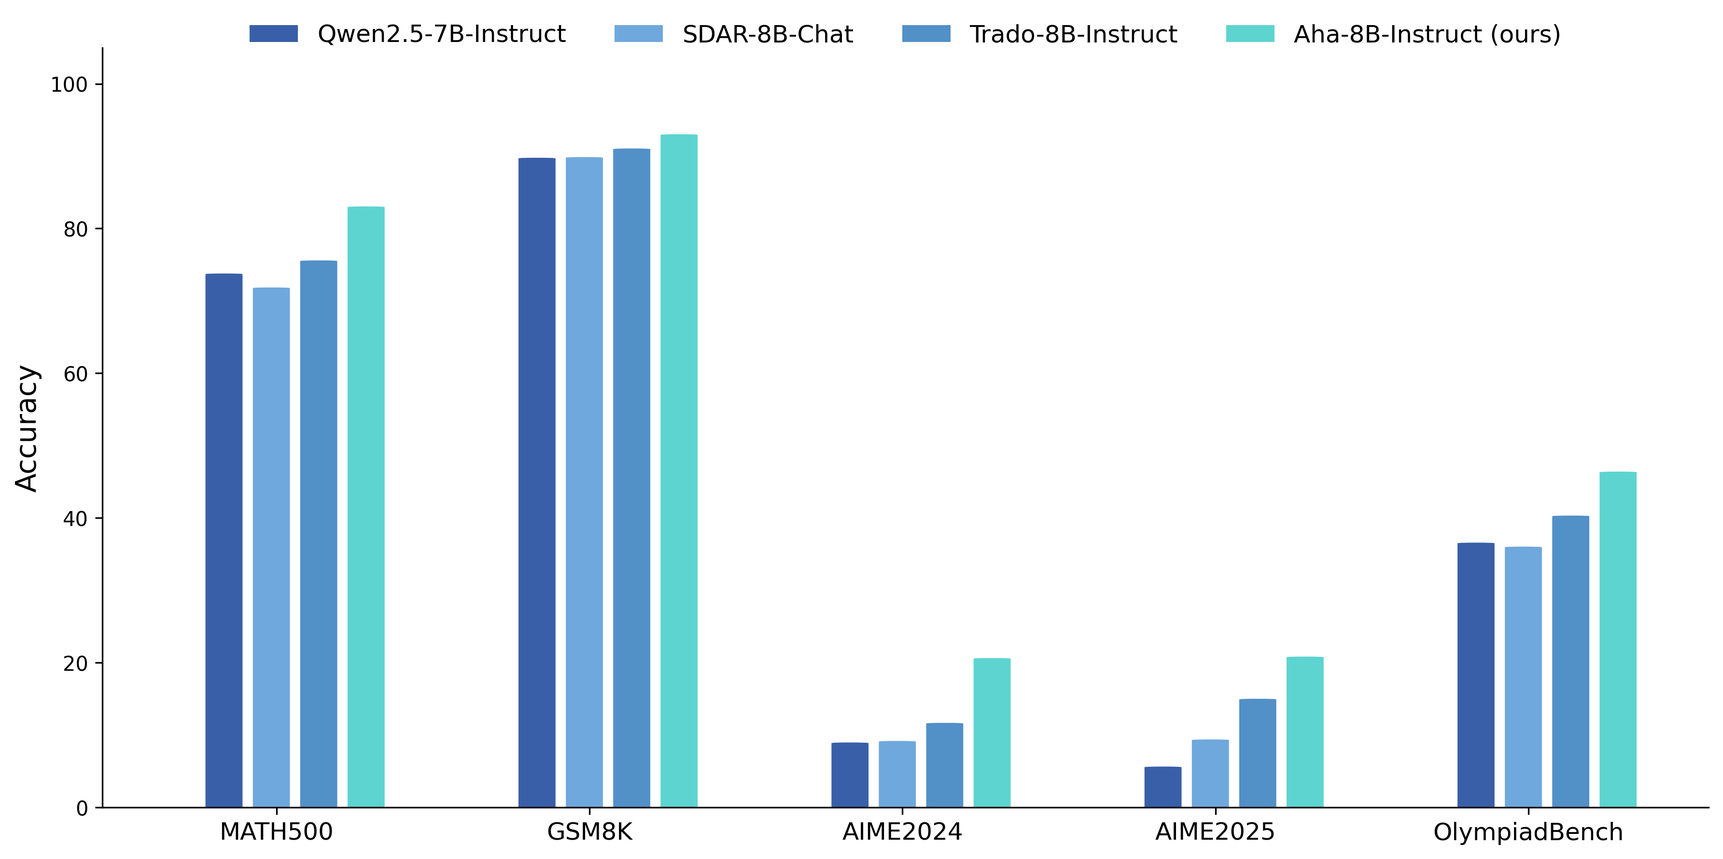
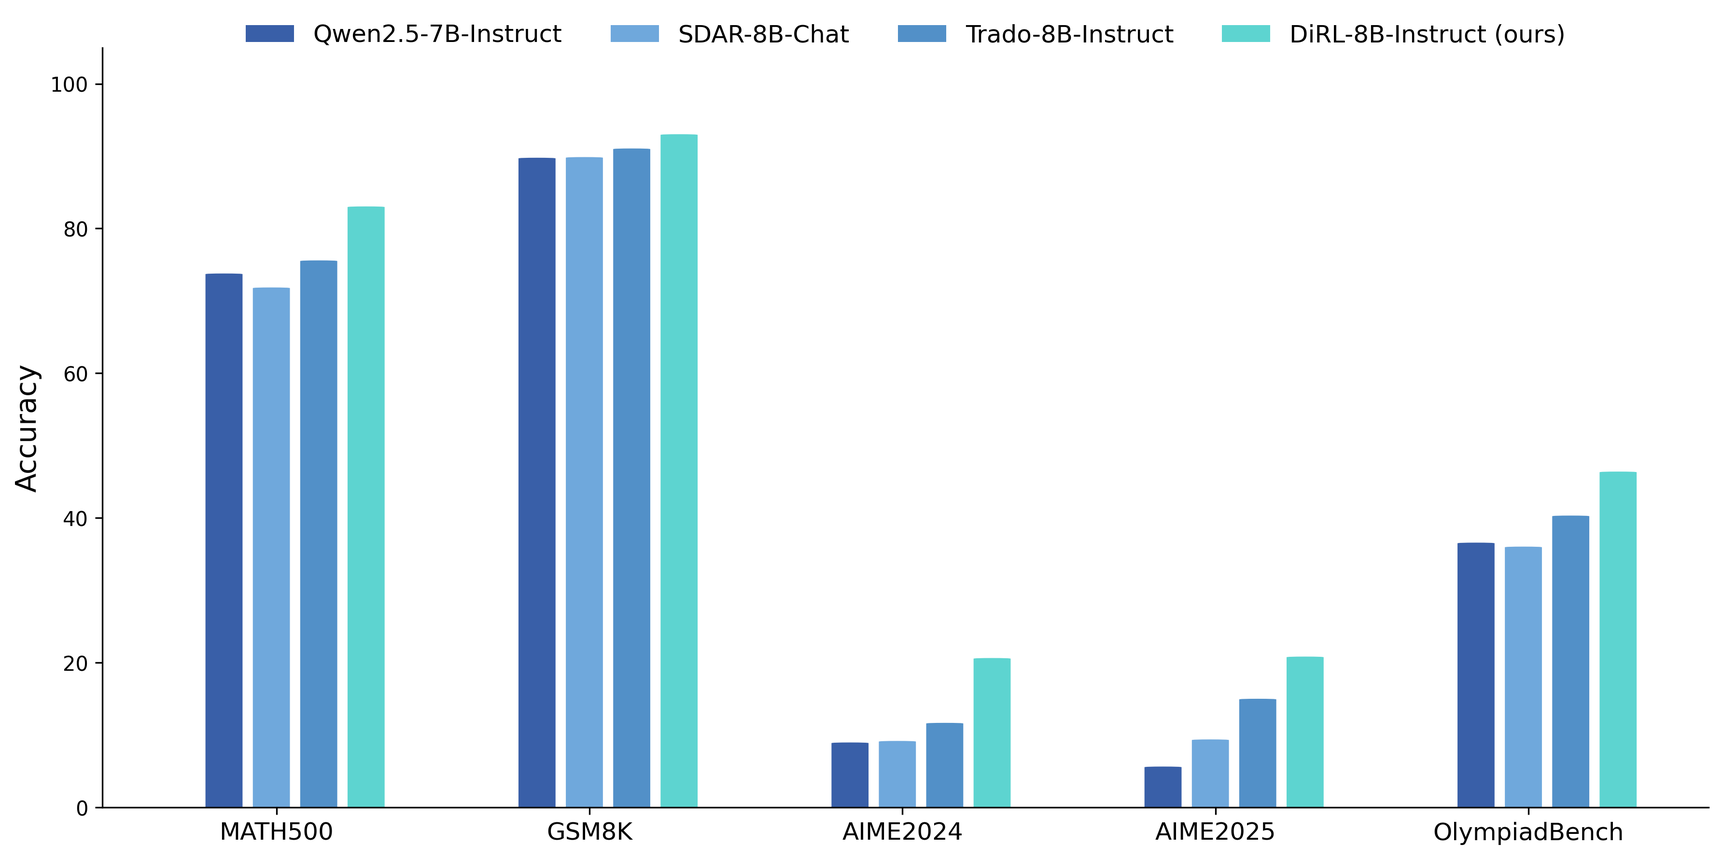
update info

diff --git a/index.html b/index.html
@@ -6,7 +6,7 @@
   
   <!-- Primary Meta Tags -->
   <!-- TODO: Replace with your paper title and author names -->
-  <meta name="title" content="GTPO-Trainer: An Efficient Training Framework for Diffusion Language Models - Ying Zhu, Jiaxin Wan, Tianyi Liang, Xu Guo, Xiaoran Liu, Zengfeng Huang, Ziwei He, Xipeng Qiu">
+  <meta name="title" content="DiRL: An Efficient Training Framework for Diffusion Language Models - Ying Zhu, Jiaxin Wan, Tianyi Liang, Xu Guo, Xiaoran Liu, Zengfeng Huang, Ziwei He, Xipeng Qiu">
   <!-- TODO: Write a compelling 150-160 character description of your research -->
   <meta name="description" content="BRIEF_DESCRIPTION_OF_YOUR_RESEARCH_CONTRIBUTION_AND_FINDINGS">
   <!-- TODO: Add 5-10 relevant keywords for your research area -->
@@ -21,7 +21,7 @@
   <!-- TODO: Replace with your institution or lab name -->
   <meta property="og:site_name" content="INSTITUTION_OR_LAB_NAME">
   <!-- TODO: Same as paper title above -->
-  <meta property="og:title" content="GTPO-Trainer: An Efficient Training Framework for Diffusion Language Models">
+  <meta property="og:title" content="DiRL: An Efficient Training Framework for Diffusion Language Models">
   <!-- TODO: Same as description above -->
   <meta property="og:description" content="BRIEF_DESCRIPTION_OF_YOUR_RESEARCH_CONTRIBUTION_AND_FINDINGS">
   <!-- TODO: Replace with your actual website URL -->
@@ -44,7 +44,7 @@
   <!-- TODO: Replace with first author's Twitter handle -->
   <meta name="twitter:creator" content="@AUTHOR_TWITTER_HANDLE">
   <!-- TODO: Same as paper title above -->
-  <meta name="twitter:title" content="GTPO-Trainer: An Efficient Training Framework for Diffusion Language Models">
+  <meta name="twitter:title" content="DiRL: An Efficient Training Framework for Diffusion Language Models">
   <!-- TODO: Same as description above -->
   <meta name="twitter:description" content="BRIEF_DESCRIPTION_OF_YOUR_RESEARCH_CONTRIBUTION_AND_FINDINGS">
   <!-- TODO: Same as social preview image above -->
@@ -52,7 +52,7 @@
   <meta name="twitter:image:alt" content="PAPER_TITLE - Research Preview">
 
   <!-- Academic/Research Specific -->
-  <meta name="citation_title" content="GTPO-Trainer: An Efficient Training Framework for Diffusion Language Models">
+  <meta name="citation_title" content="DiRL: An Efficient Training Framework for Diffusion Language Models">
   <meta name="citation_author" content="Zhu, Ying">
   <meta name="citation_author" content="Wan, Jiaxin">
   <meta name="citation_author" content="Liang, Tianyi">
@@ -80,7 +80,7 @@
 
 
   <!-- TODO: Replace with your paper title and authors -->
-  <title>GTPO-Trainer: An Efficient Training Framework for Diffusion Language Models - Ying Zhu et al. | Academic Research</title>
+  <title>DiRL: An Efficient Training Framework for Diffusion Language Models - Ying Zhu et al. | Academic Research</title>
   
   <!-- Favicon and App Icons -->
   <link rel="icon" type="image/x-icon" href="static/images/favicon.ico">
@@ -125,7 +125,7 @@
   {
     "@context": "https://schema.org",
     "@type": "ScholarlyArticle",
-    "headline": "GTPO-Trainer: An Efficient Training Framework for Diffusion Language Models",
+    "headline": "DiRL: An Efficient Training Framework for Diffusion Language Models",
     "description": "BRIEF_DESCRIPTION_OF_YOUR_RESEARCH_CONTRIBUTION_AND_FINDINGS",
     "author": [
       {
@@ -252,7 +252,7 @@
         <div class="columns is-centered">
           <div class="column has-text-centered">
             <!-- TODO: Replace with your paper title -->
-            <h1 class="title is-1 publication-title">GTPO-Trainer: An Efficient Training Framework for Diffusion Language Models</h1>
+            <h1 class="title is-1 publication-title">DiRL: An Efficient Training Framework for Diffusion Language Models</h1>
             <div class="is-size-5 publication-authors">
               <!-- TODO: Replace with your paper authors and their personal links -->
               <span class="author-block">
@@ -285,7 +285,7 @@
                     <div class="publication-links">
                          <!-- GitHub Link -->
                       <span class="link-block">
-                        <a href="https://github.com/Auraithm/GTPO-Trainer" target="_blank"
+                        <a href="https://github.com/Auraithm/DiRL" target="_blank"
                         class="external-link button is-normal is-rounded is-dark">
                         <span class="icon">
                           <img src="https://github.githubassets.com/assets/GitHub-Mark-ea2971cee799.png" alt="GitHub" style="width: 1.2em; height: 1.2em; vertical-align: middle; filter: invert(1);">
@@ -305,16 +305,6 @@
                     </a>
                   </span>
 
-                  <!-- Paper Link -->
-                  <span class="link-block">
-                    <a href="https://arxiv.org/pdf/YOUR_PAPER_ID.pdf" target="_blank"
-                    class="external-link button is-normal is-rounded is-dark">
-                    <span class="icon">
-                      <i class="fas fa-file-pdf"></i>
-                    </span>
-                    <span>Paper</span>
-                  </a>
-                </span>
             </div>
           </div>
         </div>
@@ -344,7 +334,7 @@
       <div class="column is-four-fifths">
         <h2 class="title is-3" style="font-family: 'Inter', -apple-system, BlinkMacSystemFont, 'Segoe UI', sans-serif;">TL;DR</h2>
         <div class="content" style="font-size: 1.2rem; font-family: 'Inter', -apple-system, BlinkMacSystemFont, 'Segoe UI', sans-serif; line-height: 1.7; text-align: justify;">
-          <p>We introduce <strong style="font-weight: 600;">GTPO-Trainer</strong>, an open-source training framework for Diffusion Language Models (DLLMs) with SFT and RL stages. Using this framework, we train <strong style="font-weight: 600;">Aha-8B-Instruct</strong>, achieving state-of-the-art results at the 8B scale on mathematical reasoning benchmarks, even outperforming 32B models on most tasks.</p>
+          <p>We introduce <strong style="font-weight: 600;">DiRL</strong>, an open-source training framework for Diffusion Language Models (DLLMs) with SFT and RL stages. Using this framework, we train <strong style="font-weight: 600;">DiRL-8B-Instruct</strong>, achieving state-of-the-art results at the 8B scale on mathematical reasoning benchmarks, even outperforming 32B models on most tasks.</p>
         </div>
       </div>
     </div>
@@ -681,7 +671,7 @@
 
     <div class="content has-text-justified" style="margin-bottom: 2rem; font-family: 'Inter', -apple-system, BlinkMacSystemFont, 'Segoe UI', sans-serif; font-size: 1.05rem; line-height: 1.7; color: #333;">
       <p style="margin-bottom: 1.5rem; text-align: justify;">
-        We develop and release an open-source <strong>diffusion post-training framework</strong> for DLLMs, and train <strong style="font-weight: 600;">Aha-8B-Instruct</strong> based on <strong>SDAR-8B-Chat</strong> through two stages: 
+        We develop and release an open-source <strong>diffusion post-training framework</strong> for DLLMs, and train <strong style="font-weight: 600;">DiRL-8B-Instruct</strong> based on <strong>SDAR-8B-Chat</strong> through two stages: 
         <em>Supervised Fine-Tuning (SFT)</em> and <em>Reinforcement Learning (RL)</em>.
       </p>
 
@@ -704,7 +694,7 @@
       </div>
 
       <p style="text-align: justify;">
-        Through this two-stage training pipeline, we successfully train <strong>Aha-8B-Instruct</strong>, a high-performance diffusion language model for mathematical reasoning.
+        Through this two-stage training pipeline, we successfully train <strong>DiRL-8B-Instruct</strong>, a high-performance diffusion language model for mathematical reasoning.
       </p>
     </div>
   </div>
@@ -719,7 +709,7 @@
 
       <div class="content-has-text-justified" style="margin-bottom: 2rem; font-family: 'Inter', -apple-system, BlinkMacSystemFont, 'Segoe UI', sans-serif; font-size: 1.05rem; line-height: 1.7;">
         <p style="margin-bottom: 1rem; text-align: justify;">
-          <strong style="font-weight: 600;">Aha-8B-Instruct</strong> achieves state-of-the-art results among DLLMs across mathematical reasoning benchmarks. Highlights include <strong style="font-weight: 600;">83.05%</strong> on MATH500 (surpassing the base model by <strong style="font-weight: 600;">+11.20%</strong>), <strong style="font-weight: 600;">20.63%</strong> on AIME2024 and <strong style="font-weight: 600;">20.83%</strong> on AIME2025 (dramatically outperforming all baselines), and <strong style="font-weight: 600;">46.40%</strong> on OlympiadBench. Our 8B model achieves performance comparable to or exceeding much larger 32B models on most benchmarks.
+          <strong style="font-weight: 600;">DiRL-8B-Instruct</strong> achieves state-of-the-art results among DLLMs across mathematical reasoning benchmarks. Highlights include <strong style="font-weight: 600;">83.05%</strong> on MATH500 (surpassing the base model by <strong style="font-weight: 600;">+11.20%</strong>), <strong style="font-weight: 600;">20.63%</strong> on AIME2024 and <strong style="font-weight: 600;">20.83%</strong> on AIME2025 (dramatically outperforming all baselines), and <strong style="font-weight: 600;">46.40%</strong> on OlympiadBench. Our 8B model achieves performance comparable to or exceeding much larger 32B models on most benchmarks.
         </p>
       </div>
 
@@ -846,7 +836,7 @@
               <td>46.73</td>
             </tr>
             <tr class="ours">
-              <td><strong>Aha-8B-Instruct (ours)</strong></td>
+              <td><strong>DiRL-8B-Instruct (ours)</strong></td>
               <td class="best">83.05<span class="gain-badge">+11.20</span></td>
               <td>93.03<span class="gain-badge">+3.16</span></td>
               <td class="best">20.63<span class="gain-badge">+11.46</span></td>
@@ -870,12 +860,12 @@
     <h2 class="title is-3 has-text-centered" style="margin-bottom: 2rem; font-family: 'Inter', -apple-system, BlinkMacSystemFont, 'Segoe UI', sans-serif;">Citation</h2>
     <div class="content" style="font-family: 'Inter', -apple-system, BlinkMacSystemFont, 'Segoe UI', sans-serif; font-size: 1.05rem;">
       <p style="margin-bottom: 1.5rem;">If you find our work helpful, please consider citing:</p>
-      <pre style="background-color: #f5f5f5; padding: 1.5rem; border-radius: 8px; overflow-x: auto; border: 1px solid #e0e0e0;"><code>@misc{zhu2025gtpo,
-  title={GTPO-Trainer: An Efficient Training Framework for Diffusion Language Models},
+      <pre style="background-color: #f5f5f5; padding: 1.5rem; border-radius: 8px; overflow-x: auto; border: 1px solid #e0e0e0;"><code>@misc{zhu2025dirl,
+  title={DiRL: An Efficient Training Framework for Diffusion Language Models},
   author={Ying Zhu and Jiaxin Wan and Tianyi Liang and Xu Guo and Xiaoran Liu and Zengfeng Huang and Ziwei He and Xipeng Qiu},
   year={2025},
   institution={Fudan University, Shanghai Innovation Institute},
-  url={https://github.com/Auraithm/GTPO-Trainer}
+  url={https://github.com/Auraithm/DiRL}
 }</code></pre>
     </div>
   </div>

diff --git a/plot.py b/plot.py
@@ -89,7 +89,7 @@ def plot_eval_results(models, datasets, scores):
     plt.close()
 
 if __name__ == "__main__":
-    models = ["Qwen2.5-7B-Instruct", "SDAR-8B-Chat", "Trado-8B-Instruct", "Aha-8B-Instruct (ours)"]
+    models = ["Qwen2.5-7B-Instruct", "SDAR-8B-Chat", "Trado-8B-Instruct", "DiRL-8B-Instruct (ours)"]
     datasets = ["MATH500", "GSM8K", "AIME2024", "AIME2025", "OlympiadBench"]
     scores = [
         [73.78, 89.78, 8.96, 5.63, 36.58],

diff --git a/README copy.md b/README copy.md
@@ -4,9 +4,7 @@
 
 <sup>1</sup>Fudan University, <sup>2</sup>Shanghai Innovation Institute, <sup>3</sup>University of Electronic Science and Technology of China, <sup>4</sup>East China Normal University
 
-[![arXiv](https://img.shields.io/badge/arXiv-2501.XXXXX-b31b1b.svg)](https://arxiv.org/abs/YOUR_PAPER_ID)
-[![Paper](https://img.shields.io/badge/Paper-PDF-red.svg)](https://arxiv.org/pdf/YOUR_PAPER_ID.pdf)
-[![GitHub](https://img.shields.io/badge/GitHub-Code-black.svg?logo=github)](https://github.com/Auraithm/GTPO-Trainer)
+[![GitHub](https://img.shields.io/badge/GitHub-Code-black.svg?logo=github)](https://github.com/Auraithm/DiRL)
 [![Hugging Face](https://img.shields.io/badge/🤗%20Hugging%20Face-Model-yellow.svg)](https://huggingface.co/YOUR_MODEL_HERE)
 [![License](https://img.shields.io/badge/License-Apache%202.0-blue.svg)](LICENSE)
 
@@ -15,13 +13,13 @@
 
 ## TL;DR
 
-We are excited to introduce **GTPO-Trainer**, a comprehensive, open-source training framework for Diffusion Language Models (DLLMs) that encompasses both Supervised Fine-tuning (SFT) and Reinforcement Learning (RL). For SFT, We adopt a high-quality mathematical dataset and utilize a random-masking strategy during SFT to boost reasoning. For RL, we developed **GTPO (Group Trajectory Policy Optimization)**, a novel algorithm inspired by Trace-RL and GRPO, which is specifically tailored for DLLMs and engineered for efficient, multi-node training. Leveraging this framework, we release SDAR-8B-GTPO, an 8B model that achieves state-of-the-art results for its size.
+We are excited to introduce **DiRL**, a comprehensive, open-source training framework for Diffusion Language Models (DLLMs) that encompasses both Supervised Fine-tuning (SFT) and Reinforcement Learning (RL). For SFT, We adopt a high-quality mathematical dataset and utilize a random-masking strategy during SFT to boost reasoning. For RL, we developed **GTPO (Group Trajectory Policy Optimization)**, a novel algorithm inspired by Trace-RL and GRPO, which is specifically tailored for DLLMs and engineered for efficient, multi-node training. Leveraging this framework, we release DiRL-8B-Instruct, an 8B model that achieves state-of-the-art results for its size.
 
 We propose **GTPO (Group Trajectory Policy Optimization)**, a reinforcement learning algorithm specially designed for Diffusion Language Models (DLLMs). It is inspired by Trace-RL's trajectory-level training objective and incorporates the group-based advantage mechanism from GRPO. Importantly, we achieve a perfect and unbiased implementation of RL theory for DLLMs.
 
 Furthermore, we develop a complete training framework, GTPO-DLLM, based on GTPO, which includes a two-stage post-training pipeline: SFT and RL. We integrate the **Lmdeploy** inference framework to enable efficient rollout and step_map feedback, and use **Accelerate** to support multi-node training.
 
-Based on this training framework, we employ the post-training on SDAR-8B-Chat and sucessfully train and release a new difusion language model - **Aha-8B-Instruct**, a high-performance, open-source DLLM that achieves state-of-the-art (SOTA) results among models of comparable scale.
+Based on this training framework, we employ the post-training on SDAR-8B-Chat and sucessfully train and release a new difusion language model - **DiRL-8B-Instruct**, a high-performance, open-source DLLM that achieves state-of-the-art (SOTA) results among models of comparable scale.
 
 ## HighLights
 
@@ -31,7 +29,7 @@ Based on this training framework, we employ the post-training on SDAR-8B-Chat an
 
 ## Method
 
-Inspired by the **DLLM-RL** framework, we further develop and release an open-source **diffusion post-training framework** specifically designed for mathematical reasoning. **Aha-8B-Instruct** is developed based on **SDAR-8B-Chat** as the base model, and trained through two stages: *Supervised Fine-Tuning (SFT)* and *Reinforcement Learning (RL)*.
+Inspired by the **DLLM-RL** framework, we further develop and release an open-source **diffusion post-training framework** specifically designed for mathematical reasoning. **DiRL-8B-Instruct** is developed based on **SDAR-8B-Chat** as the base model, and trained through two stages: *Supervised Fine-Tuning (SFT)* and *Reinforcement Learning (RL)*.
 
 ### Stage 1: Supervised Fine-Tuning (SFT)
 
@@ -41,12 +39,12 @@ We prepare a proprietary, high-quality mathematical dataset with a generation le
 
 Inspired by the theoretical foundations of **TraceRL** and **GRPO**, we design an RL framework -- **GTPO**, specifically tailored for DLLMs, training with a generation length of **8K**. Importantly, we achieve a perfect and unbiased implementation of RL theory for DLLMs, ensuring complete consistency between the optimization objective and the actual training process. This algorithm integrates diffusion-specific optimization strategies, including a diffusion-generated step map to accelerate convergence and stabilize gradient updates. The online learning paradigm enables dynamic exploration and continuous improvement during the training process.
 
-This two-stage design enables **Aha-8B-Instruct** to achieve efficient long-context adaptation while preserving stability and strong generalization across mathematical reasoning benchmarks.
+This two-stage design enables **DiRL-8B-Instruct** to achieve efficient long-context adaptation while preserving stability and strong generalization across mathematical reasoning benchmarks.
 
 
 ## Performance
 
-**Aha-8B-Instruct** achieves state-of-the-art results among DLLMs across mathematical reasoning benchmarks. Highlights include **81.60%** on MATH500 (surpassing the base model by **+9.75%**), **20.00%** on AIME2024 and **19.17%** on AIME2025 (dramatically outperforming all baselines), and **44.81%** on OlympiadBench. Our 8B model achieves performance comparable to or exceeding much larger 32B models on most benchmarks.
+**DiRL-8B-Instruct** achieves state-of-the-art results among DLLMs across mathematical reasoning benchmarks. Highlights include **81.60%** on MATH500 (surpassing the base model by **+9.75%**), **20.00%** on AIME2024 and **19.17%** on AIME2025 (dramatically outperforming all baselines), and **44.81%** on OlympiadBench. Our 8B model achieves performance comparable to or exceeding much larger 32B models on most benchmarks.
 
 | Model | MATH500 | GSM8K | AIME2024 | AIME2025 | OlympiadBench |
 |-------|---------|-------|----------|----------|---------------|
@@ -54,4 +52,4 @@ This two-stage design enables **Aha-8B-Instruct** to achieve efficient long-cont
 | Qwen2.5-32B-Instruct | 81.13 | **94.03** | 12.92 | 11.88 | **45.65** |
 | SDAR-8B-Chat | 71.85 | 89.87 | 9.17 | 9.38 | 36.03 |
 | Trado-8B-Instruct | 75.59 | 91.06 | 11.67 | 15.00 | 40.32 |
-| **Aha-8B-Instruct (ours)** | **81.60** <br/><sub style="color: #28a745;">(+9.75)</sub> | 90.65 <br/><sub style="color: #28a745;">(+0.78)</sub> | **20.00** <br/><sub style="color: #28a745;">(+10.83)</sub> | **19.17** <br/><sub style="color: #28a745;">(+9.79)</sub> | 44.81 <br/><sub style="color: #28a745;">(+8.78)</sub> |
+| **DiRL-8B-Instruct (ours)** | **81.60** <br/><sub style="color: #28a745;">(+9.75)</sub> | 90.65 <br/><sub style="color: #28a745;">(+0.78)</sub> | **20.00** <br/><sub style="color: #28a745;">(+10.83)</sub> | **19.17** <br/><sub style="color: #28a745;">(+9.79)</sub> | 44.81 <br/><sub style="color: #28a745;">(+8.78)</sub> |

diff --git a/README.md b/README.md
@@ -1,4 +1,4 @@
-# GTPO-Trainer: An Efficient Training Framework for Diffusion Language Models
+# DiRL: An Efficient Training Framework for Diffusion Language Models
 
 [Ying Zhu](#)<sup>1,2,3</sup>, [Jiaxin Wan](#)<sup>2</sup>, [Tianyi Liang](#)<sup>2,3</sup>, [Xu Guo](#)<sup>1,2</sup>, [Xiaoran Liu](#)<sup>1,2,3</sup>, [Zengfeng Huang](#)<sup>1,2</sup>, [Ziwei He](#)<sup>2,3,†</sup>, [Xipeng Qiu](#)<sup>1,2,3,†</sup>
 
@@ -6,18 +6,16 @@
 
 <sup>†</sup>Corresponding authors
 
-[![arXiv](https://img.shields.io/badge/arXiv-2501.XXXXX-b31b1b.svg)](https://arxiv.org/abs/YOUR_PAPER_ID)
-[![Paper](https://img.shields.io/badge/Paper-PDF-red.svg)](https://arxiv.org/pdf/YOUR_PAPER_ID.pdf)
-[![GitHub](https://img.shields.io/badge/GitHub-Code-black.svg?logo=github)](https://github.com/Auraithm/GTPO-Trainer)
+[![GitHub](https://img.shields.io/badge/GitHub-Code-black.svg?logo=github)](https://github.com/Auraithm/DiRL)
 [![Hugging Face](https://img.shields.io/badge/🤗%20Hugging%20Face-Model-yellow.svg)](https://huggingface.co/YOUR_MODEL_HERE)
 [![License](https://img.shields.io/badge/License-Apache%202.0-blue.svg)](LICENSE)
 
 
-![Aha Framework Overview](static/images/accuracy.png)
+![DiRL Framework Overview](static/images/accuracy.png)
 
 ## TL;DR
 
-We introduce **GTPO-Trainer**, an open-source training framework for Diffusion Language Models (DLLMs) with SFT and RL stages. Using this framework, we train **Aha-8B-Instruct**, achieving state-of-the-art results at the 8B scale on mathematical reasoning benchmarks, even outperforming 32B models on most tasks.
+We introduce **DiRL**, an open-source training framework for Diffusion Language Models (DLLMs) with SFT and RL stages. Using this framework, we train **DiRL-8B-Instruct**, achieving state-of-the-art results at the 8B scale on mathematical reasoning benchmarks, even outperforming 32B models on most tasks.
 
 
 ## HighLights
@@ -28,7 +26,7 @@ We introduce **GTPO-Trainer**, an open-source training framework for Diffusion L
 
 ## Method
 
-We develop and release an open-source **diffusion post-training framework** for DLLMs, and train **Aha-8B-Instruct** based on **SDAR-8B-Chat** through two stages: *Supervised Fine-Tuning (SFT)* and *Reinforcement Learning (RL)*.
+We develop and release an open-source **diffusion post-training framework** for DLLMs, and train **DiRL-8B-Instruct** based on **SDAR-8B-Chat** through two stages: *Supervised Fine-Tuning (SFT)* and *Reinforcement Learning (RL)*.
 
 ### Stage 1: Supervised Fine-Tuning (SFT)
 
@@ -38,12 +36,12 @@ We prepare a proprietary, high-quality mathematical dataset with **2K** samples 
 
 We design an RL algorithm -- **GTPO**, and train the model with a generation length of **8K**. We achieve an unbiased implementation of RL theory, ensuring complete consistency between the optimization objective and the actual training process. Additionally, during the rollout phase, we adopt dynamic sampling from DAPO to filter out data with zero advantage standard deviation.
 
-Through this two-stage training pipeline, we successfully train **Aha-8B-Instruct**, a high-performance diffusion language model for mathematical reasoning.
+Through this two-stage training pipeline, we successfully train **DiRL-8B-Instruct**, a high-performance diffusion language model for mathematical reasoning.
 
 
 ## Performance
 
-**Aha-8B-Instruct** achieves state-of-the-art results among DLLMs across mathematical reasoning benchmarks. Highlights include **83.05%** on MATH500 (surpassing the base model by **+11.20%**), **20.63%** on AIME2024 and **20.83%** on AIME2025 (dramatically outperforming all baselines), and **46.40%** on OlympiadBench. Our 8B model achieves performance comparable to or exceeding much larger 32B models on most benchmarks.
+**DiRL-8B-Instruct** achieves state-of-the-art results among DLLMs across mathematical reasoning benchmarks. Highlights include **83.05%** on MATH500 (surpassing the base model by **+11.20%**), **20.63%** on AIME2024 and **20.83%** on AIME2025 (dramatically outperforming all baselines), and **46.40%** on OlympiadBench. Our 8B model achieves performance comparable to or exceeding much larger 32B models on most benchmarks.
 
 | Model | MATH500 | GSM8K | AIME2024 | AIME2025 | OlympiadBench | Average |
 |-------|---------|-------|----------|----------|---------------|---------|
@@ -51,7 +49,7 @@ Through this two-stage training pipeline, we successfully train **Aha-8B-Instruc
 | Qwen2.5-32B-Instruct | 81.13 | **94.03** | 12.92 | 11.88 | **45.65** | 49.12 |
 | SDAR-8B-Chat | 71.85 | 89.87 | 9.17 | 9.38 | 36.03 | 43.26 |
 | Trado-8B-Instruct | 75.59 | 91.06 | 11.67 | 15.00 | 40.32 | 46.73 |
-| **Aha-8B-Instruct (ours)** | **83.05** <br/><sub style="color: #28a745;">(+11.20)</sub> | **93.03** <br/><sub style="color: #28a745;">(+3.16)</sub> | **20.63** <br/><sub style="color: #28a745;">(+11.46)</sub> | **20.83** <br/><sub style="color: #28a745;">(+11.45)</sub> | **46.40** <br/><sub style="color: #28a745;">(+10.37)</sub> | **52.79** <br/><sub style="color: #28a745;">(+9.53)</sub> |
+| **DiRL-8B-Instruct (ours)** | **83.05** <br/><sub style="color: #28a745;">(+11.20)</sub> | **93.03** <br/><sub style="color: #28a745;">(+3.16)</sub> | **20.63** <br/><sub style="color: #28a745;">(+11.46)</sub> | **20.83** <br/><sub style="color: #28a745;">(+11.45)</sub> | **46.40** <br/><sub style="color: #28a745;">(+10.37)</sub> | **52.79** <br/><sub style="color: #28a745;">(+9.53)</sub> |
 
 
 ## Citation
@@ -59,11 +57,11 @@ Through this two-stage training pipeline, we successfully train **Aha-8B-Instruc
 If you find our work helpful, please consider citing:
 
 ```bibtex
-@misc{zhu2025gtpo,
-  title={GTPO-Trainer: An Efficient Training Framework for Diffusion Language Models},
+@misc{zhu2025dirl,
+  title={DiRL: An Efficient Training Framework for Diffusion Language Models},
   author={Ying Zhu and Jiaxin Wan and Tianyi Liang and Xu Guo and Xiaoran Liu and Zengfeng Huang and Ziwei He and Xipeng Qiu},
   year={2025},
   institution={Fudan University, Shanghai Innovation Institute},
-  url={https://github.com/Auraithm/GTPO-Trainer}
+  url={https://github.com/Auraithm/DiRL}
 }
 ```
